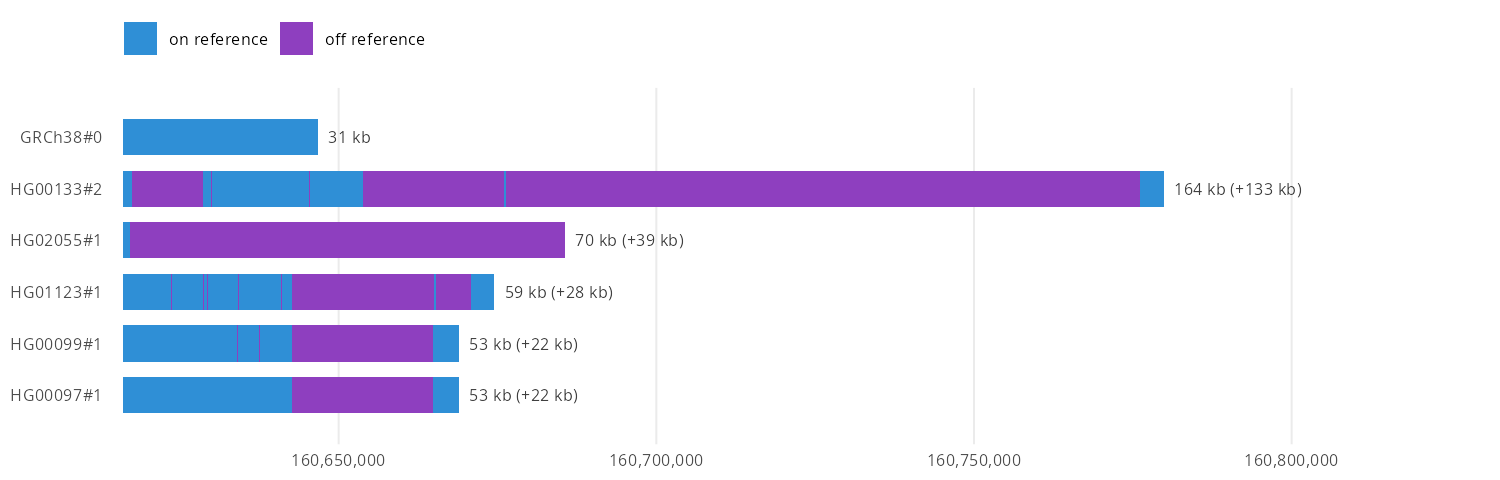
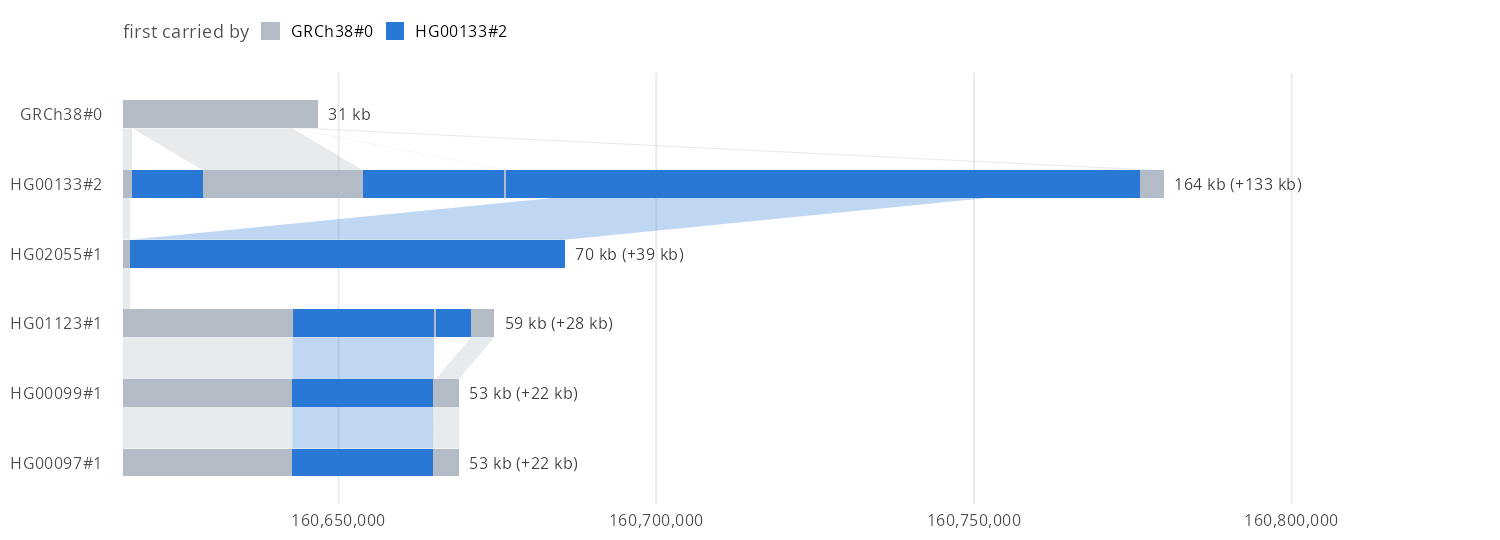
Trim the gallery to eight figures
Drops the combined figure (a tall ggjbrowse track over both layouts), the
RHD walk rows the deletions figure already shows, the tube map whose node
names pile up, and the SMN locus crowded with LOC labels. The README's walk
rows notes describe the ribbons and colours.

diff --git a/README.md b/README.md
@@ -67,11 +67,9 @@ ggplot(g) +
 <!-- gallery -->
 <table>
 <tr><td width="50%"><b><a href="docs/gallery.md#lpas-kiv-2-repeat-a-panel-per-walk">LPA's KIV-2 repeat, a panel per walk</a></b><br><code>chr6:160,616,004-160,646,753</code><br><img src="gallery/kiv2_walks.png" alt="Force-directed layout of the KIV-2 array cut from the walk file, GRCh38 and HG00097 each lifted in its own panel and shaded yellow to red along its length: HG00097 runs 55 kb through loops GRCh38's 33 kb skips" width="100%"></td><td width="50%"><b><a href="docs/gallery.md#kiv-2-in-the-stress-layout-lpas-exons-pinned">KIV-2 in the stress layout, LPA's exons pinned</a></b><br><code>chr6:160,616,004-160,646,753</code><br><img src="gallery/kiv2_stress.png" alt="Stress layout of the KIV-2 array from the hosted index: the reference straight and coloured by position, LPA's exons outlined in orange, and the repeat alleles hanging below it" width="100%"></td></tr>
-<tr><td width="50%"><b><a href="docs/gallery.md#kiv-2-copy-number-as-walk-rows">KIV-2 copy number as walk rows</a></b><br><code>chr6:160,616,004-160,646,753</code><br><img src="gallery/kiv2_rows.png" alt="Walk rows at KIV-2: GRCh38 spans 31 kb, HG00133#2 164 kb, and the other haplotypes between, the extra copies off the reference's path in purple" width="100%"></td><td width="50%"><b><a href="docs/gallery.md#genes-walk-rows-and-both-layouts-of-one-cut">Genes, walk rows and both layouts of one cut</a></b><br><code>chr6:160,616,004-160,646,753</code><br><img src="gallery/kiv2_combined.png" alt="A ggjbrowse RefSeq track of LPA over the KIV-2 walk rows, over the force-directed and stress layouts of the same cut with HG00133#2 lifted and shaded along its length" width="100%"></td></tr>
-<tr><td width="50%"><b><a href="docs/gallery.md#amylase-copy-number-in-twelve-haplotypes">Amylase copy number in twelve haplotypes</a></b><br><code>chr1:103,540,000-103,780,000</code><br><img src="gallery/amylase_rows.png" alt="Walk rows over the salivary amylase genes: GRCh38 spans 240 kb, and the haplotypes run from 146 kb to 475 kb, each extra AMY1 copy a purple stretch off the reference's path" width="100%"></td><td width="50%"><b><a href="docs/gallery.md#the-amylase-locus-force-directed-the-longest-haplotype-lifted">The amylase locus force-directed, the longest haplotype lifted</a></b><br><code>chr1:103,540,000-103,780,000</code><br><img src="gallery/amylase_force.png" alt="Force-directed layout of the amylase locus with HG00128#1, 475 kb, lifted and shaded along its length through loops of extra AMY1 copies, the AMY genes outlined and named" width="100%"></td></tr>
-<tr><td width="50%"><b><a href="docs/gallery.md#the-rhd-deletion-as-walk-rows">The RHD deletion as walk rows</a></b><br><code>chr1:25,250,000-25,450,000</code><br><img src="gallery/rhd_rows.png" alt="Walk rows over RHD: eight haplotypes span the reference's 201 kb, and five carry the RhD-negative deletion, 70 kb shorter" width="100%"></td><td width="50%"><b><a href="docs/gallery.md#c4a-and-c4b-in-the-stress-layout">C4A and C4B in the stress layout</a></b><br><code>chr6:31,975,000-32,060,000</code><br><img src="gallery/c4_stress.png" alt="Stress layout of the complement C4 genes in the MHC: the HERV-K insertions in C4A and C4B hang as loops below the reference, and a dashed arch skips a whole C4 module" width="100%"></td></tr>
-<tr><td width="50%"><b><a href="docs/gallery.md#smn1-and-smn2-force-directed">SMN1 and SMN2, force-directed</a></b><br><code>chr5:70,000,000-71,500,000</code><br><img src="gallery/smn_force.png" alt="Force-directed layout of 1.5 Mb around the spinal muscular atrophy genes: SMN1 and SMN2 sit among loops of segmental duplication, each gene's exons outlined" width="100%"></td><td width="50%"><b><a href="docs/gallery.md#four-common-deletions-in-the-stress-layout">Four common deletions in the stress layout</a></b><br><code>RHD, AMY1, C4, CYP2D6</code><br><img src="gallery/deletions.png" alt="Four loci in the stress layout, each a dashed arch over the reference where a deletion skips it, such as the RHD gene deletion" width="100%"></td></tr>
-<tr><td width="50%"><b><a href="docs/gallery.md#a-tandem-repeat-as-a-tube-map-and-a-force-layout">A tandem repeat as a tube map and a force layout</a></b><br><code>chr6:160,653,940-160,654,130</code><br><img src="gallery/str_tubemap.png" alt="A short tandem repeat near LPA cut from the walk file: a ggtubemap tube map of seven haplotypes over the force-directed layout of the same cut, HG00133#2 lifted and each node named" width="100%"></td><td width="50%"><b><a href="docs/gallery.md#your-own-colours-nodes-by-length">Your own colours: nodes by length</a></b><br><code>chr6:160,653,940-160,654,130</code><br><img src="gallery/own_colours.png" alt="The same tandem repeat force-directed and drawn with plain ggplot2 layers: grey edges, nodes coloured by log10 length on viridis, and each node of 5 bp or more labelled with its length" width="100%"></td></tr>
+<tr><td width="50%"><b><a href="docs/gallery.md#kiv-2-copy-number-as-walk-rows">KIV-2 copy number as walk rows</a></b><br><code>chr6:160,616,004-160,646,753</code><br><img src="gallery/kiv2_rows.png" alt="Walk rows at KIV-2 joined by ribbons where neighbours share sequence: GRCh38 spans 31 kb and HG00133#2 164 kb, and the other four haplotypes carry part of HG00133's 133 kb of extra copies, drawn in its blue" width="100%"></td><td width="50%"><b><a href="docs/gallery.md#amylase-copy-number-in-twelve-haplotypes">Amylase copy number in twelve haplotypes</a></b><br><code>chr1:103,540,000-103,780,000</code><br><img src="gallery/amylase_rows.png" alt="Walk rows over the salivary amylase genes joined by ribbons: GRCh38 spans 240 kb and the haplotypes 146 kb to 475 kb, CHM13's extra copies in blue recur in five of them, and three haplotypes share a stretch of their own in pink" width="100%"></td></tr>
+<tr><td width="50%"><b><a href="docs/gallery.md#the-amylase-locus-force-directed-the-longest-haplotype-lifted">The amylase locus force-directed, the longest haplotype lifted</a></b><br><code>chr1:103,540,000-103,780,000</code><br><img src="gallery/amylase_force.png" alt="Force-directed layout of the amylase locus with HG00128#1, 475 kb, lifted and shaded along its length through loops of extra AMY1 copies, the AMY genes outlined and named" width="100%"></td><td width="50%"><b><a href="docs/gallery.md#c4a-and-c4b-in-the-stress-layout">C4A and C4B in the stress layout</a></b><br><code>chr6:31,975,000-32,060,000</code><br><img src="gallery/c4_stress.png" alt="Stress layout of the complement C4 genes in the MHC: the HERV-K insertions in C4A and C4B hang as loops below the reference, and a dashed arch skips a whole C4 module" width="100%"></td></tr>
+<tr><td width="50%"><b><a href="docs/gallery.md#four-common-deletions-in-the-stress-layout">Four common deletions in the stress layout</a></b><br><code>RHD, AMY1, C4, CYP2D6</code><br><img src="gallery/deletions.png" alt="Four loci in the stress layout, each a dashed arch over the reference where a deletion skips it, such as the RHD gene deletion" width="100%"></td><td width="50%"><b><a href="docs/gallery.md#your-own-colours-nodes-by-length">Your own colours: nodes by length</a></b><br><code>chr6:160,653,940-160,654,130</code><br><img src="gallery/own_colours.png" alt="A short tandem repeat near LPA, cut from the walk file, force-directed and drawn with plain ggplot2 layers: grey edges, nodes coloured by log10 length on viridis, and each node of 5 bp or more labelled with its length" width="100%"></td></tr>
 </table>
 <!-- /gallery -->
 
@@ -122,19 +120,24 @@ The reference-anchored layouts, `layout = "auto"`, `"ordered"` and
 ## Walk rows
 
 `bandage_walk_rows()` draws each walk as a bar as long as its sequence through
-the region, the reference on top and the rest longest first. A repeat
-expansion reads as bar length, which no node layout shows:
+the region, the reference on top. A repeat expansion reads as bar length,
+which no node layout shows:
 
 ```r
 rows <- bandage_walk_rows(walks, kiv2, haplotypes = haplotypes)
 autoplot(rows)
 ```
 
-
-- Blue is sequence on the reference's path, purple off it, grey what the cut
-  left out
-- `rows$rows` has each walk's `bp` and readout, and `rows$runs` each stretch
-  of each bar
+- `bandage_walk_rows()` puts each row under the one it shares the most
+  sequence with; `order = "length"` puts the longest first instead
+- `autoplot()` colours each stretch by the first row down that carries it:
+  grey for the reference's sequence and a hue for each row's own, so an extra
+  repeat copy has one colour in every row that has it
+- `autoplot()` draws a ribbon wherever neighbouring rows share sequence.
+  Where a repeat's copies could pair several ways, it keeps the pairing that
+  holds both rows in order, leaving unjoined a copy one row has more of
+- `rows$rows` has each walk's `bp` and readout, `rows$runs` each stretch of
+  each bar, and `rows$links` each ribbon
 
 ## Inputs
 

diff --git a/docs/gallery.md b/docs/gallery.md
@@ -51,42 +51,18 @@ autoplot(g)
 
 `chr6:160,616,004-160,646,753`
 
-![Walk rows at KIV-2: GRCh38 spans 31 kb, HG00133#2 164 kb, and the other haplotypes between, the extra copies off the reference's path in purple](../gallery/kiv2_rows.png)
+![Walk rows at KIV-2 joined by ribbons where neighbours share sequence: GRCh38 spans 31 kb and HG00133#2 164 kb, and the other four haplotypes carry part of HG00133's 133 kb of extra copies, drawn in its blue](../gallery/kiv2_rows.png)
 
 ```r
 rows <- bandage_walk_rows(walks, kiv2, haplotypes = five)
 autoplot(rows)
 ```
 
-## Genes, walk rows and both layouts of one cut
-
-`chr6:160,616,004-160,646,753`
-
-![A ggjbrowse RefSeq track of LPA over the KIV-2 walk rows, over the force-directed and stress layouts of the same cut with HG00133#2 lifted and shaded along its length](../gallery/kiv2_combined.png)
-
-```r
-rows <- bandage_walk_rows(walks, kiv2, haplotypes = five)
-track <- ggjbrowse::jbrowse_features(
-  genes, "chr6", 160616003, 160646753,
-  index = paste0(genes, ".csi")
-)
-cut <- tempfile(fileext = ".gfa")
-writeLines(bandage_gfa(walks, kiv2, haplotypes = five), cut)
-lifted <- "HG00133#2#CM090065.1"
-force <- bandage_layout(cut, walks = lifted, genes = genes)
-stress <- bandage_layout(cut, walks = lifted, genes = genes, engine = "stress")
-x <- c(rows$origin, max(rows$rows$xmax))
-(autoplot(track) + coord_cartesian(xlim = x)) /
-  (autoplot(rows, readouts = FALSE) + coord_cartesian(xlim = x)) /
-  (autoplot(force) | autoplot(stress)) +
-  plot_layout(heights = c(2, 2, 5))
-```
-
 ## Amylase copy number in twelve haplotypes
 
 `chr1:103,540,000-103,780,000`
 
-![Walk rows over the salivary amylase genes: GRCh38 spans 240 kb, and the haplotypes run from 146 kb to 475 kb, each extra AMY1 copy a purple stretch off the reference's path](../gallery/amylase_rows.png)
+![Walk rows over the salivary amylase genes joined by ribbons: GRCh38 spans 240 kb and the haplotypes 146 kb to 475 kb, CHM13's extra copies in blue recur in five of them, and three haplotypes share a stretch of their own in pink](../gallery/amylase_rows.png)
 
 ```r
 rows <- bandage_walk_rows(walks, "chr1:103,540,000-103,780,000", haplotypes = twelve)
@@ -110,17 +86,6 @@ g <- bandage_layout(
 autoplot(g)
 ```
 
-## The RHD deletion as walk rows
-
-`chr1:25,250,000-25,450,000`
-
-![Walk rows over RHD: eight haplotypes span the reference's 201 kb, and five carry the RhD-negative deletion, 70 kb shorter](../gallery/rhd_rows.png)
-
-```r
-rows <- bandage_walk_rows(walks, "chr1:25,250,000-25,450,000", haplotypes = twelve)
-autoplot(rows)
-```
-
 ## C4A and C4B in the stress layout
 
 `chr6:31,975,000-32,060,000`
@@ -132,17 +97,6 @@ g <- bandage_layout(
   index,
   region = "chr6:31,975,000-32,060,000", engine = "stress", genes = genes
 )
-autoplot(g)
-```
-
-## SMN1 and SMN2, force-directed
-
-`chr5:70,000,000-71,500,000`
-
-![Force-directed layout of 1.5 Mb around the spinal muscular atrophy genes: SMN1 and SMN2 sit among loops of segmental duplication, each gene's exons outlined](../gallery/smn_force.png)
-
-```r
-g <- bandage_layout(index, region = "chr5:70,000,000-71,500,000", genes = genes)
 autoplot(g)
 ```
 
@@ -169,34 +123,11 @@ plots <- Map(
 wrap_plots(plots, ncol = 2)
 ```
 
-## A tandem repeat as a tube map and a force layout
-
-`chr6:160,653,940-160,654,130`
-
-![A short tandem repeat near LPA cut from the walk file: a ggtubemap tube map of seven haplotypes over the force-directed layout of the same cut, HG00133#2 lifted and each node named](../gallery/str_tubemap.png)
-
-```r
-cut <- tempfile(fileext = ".gfa")
-writeLines(
-  bandage_gfa(
-    walks, "chr6:160,653,940-160,654,130",
-    haplotypes = c("CHM13#0", five), context = 0
-  ),
-  cut
-)
-tm <- ggtubemap::tubemap_layout(
-  ggtubemap::read_gfa(cut, reference = "GRCh38#0#chr6"),
-  node_width = "compressed"
-)
-g <- bandage_layout(cut, walks = "HG00133#2#CM090065.1", width = 600)
-autoplot(tm) / autoplot(g, labels = TRUE)
-```
-
 ## Your own colours: nodes by length
 
 `chr6:160,653,940-160,654,130`
 
-![The same tandem repeat force-directed and drawn with plain ggplot2 layers: grey edges, nodes coloured by log10 length on viridis, and each node of 5 bp or more labelled with its length](../gallery/own_colours.png)
+![A short tandem repeat near LPA, cut from the walk file, force-directed and drawn with plain ggplot2 layers: grey edges, nodes coloured by log10 length on viridis, and each node of 5 bp or more labelled with its length](../gallery/own_colours.png)
 
 ```r
 cut <- tempfile(fileext = ".gfa")
